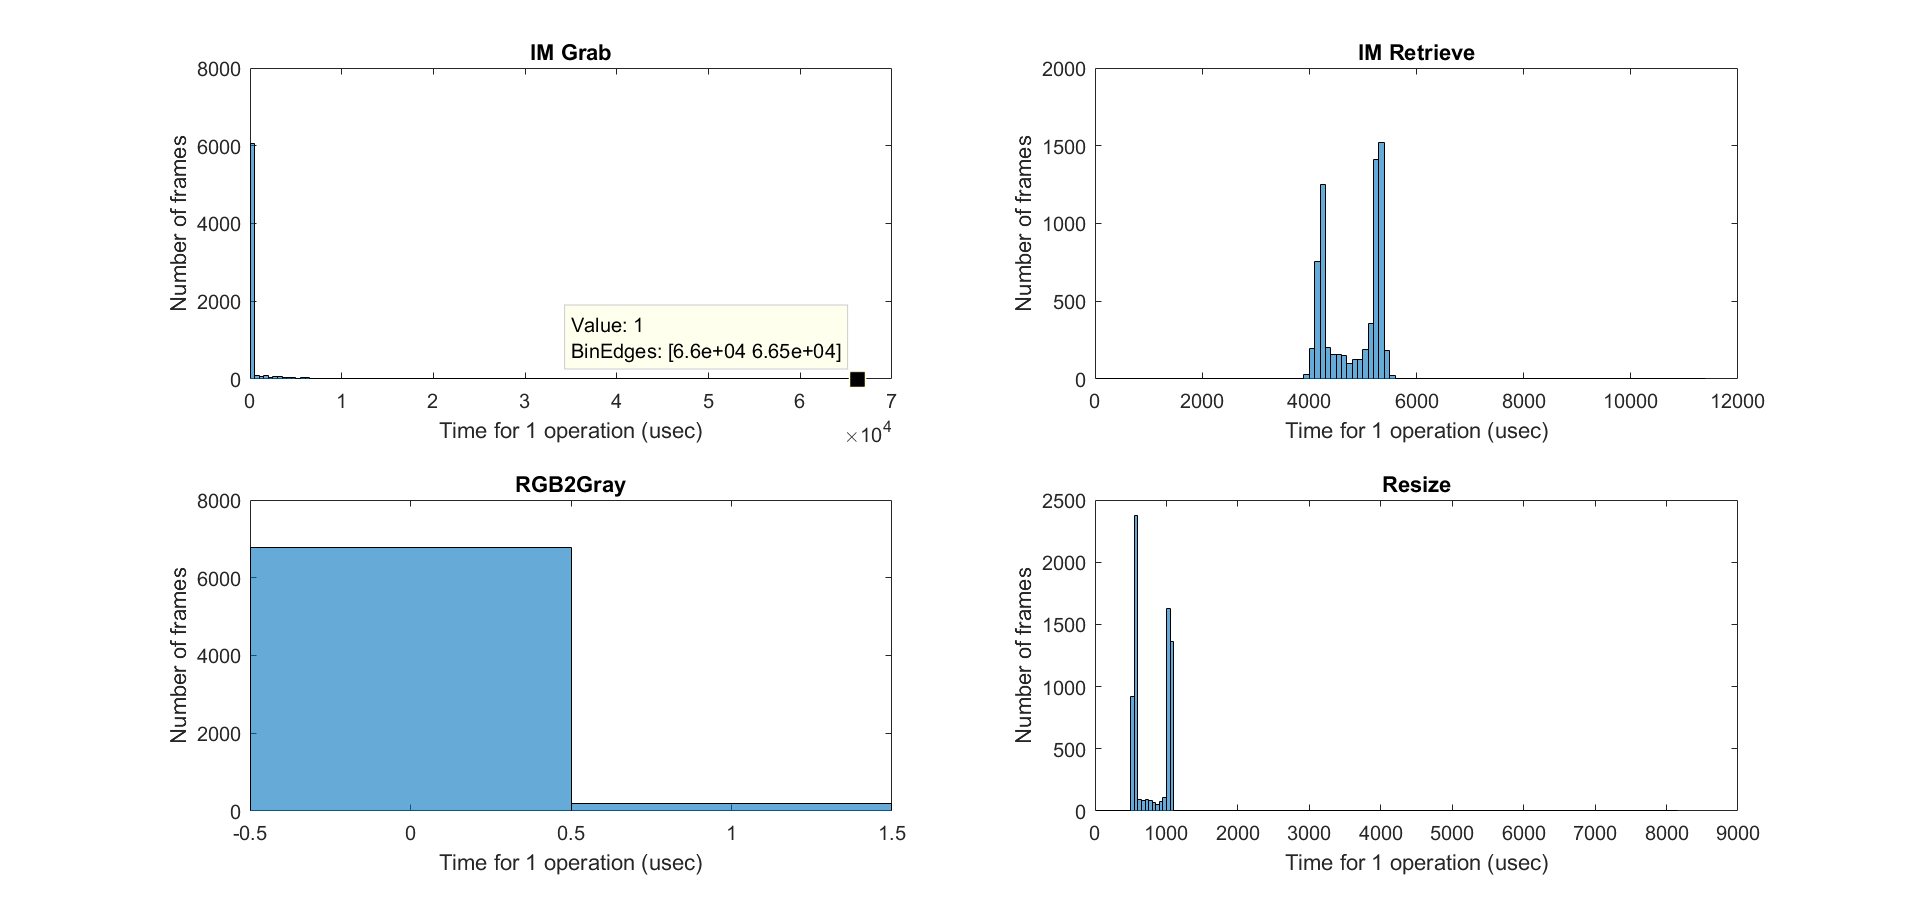
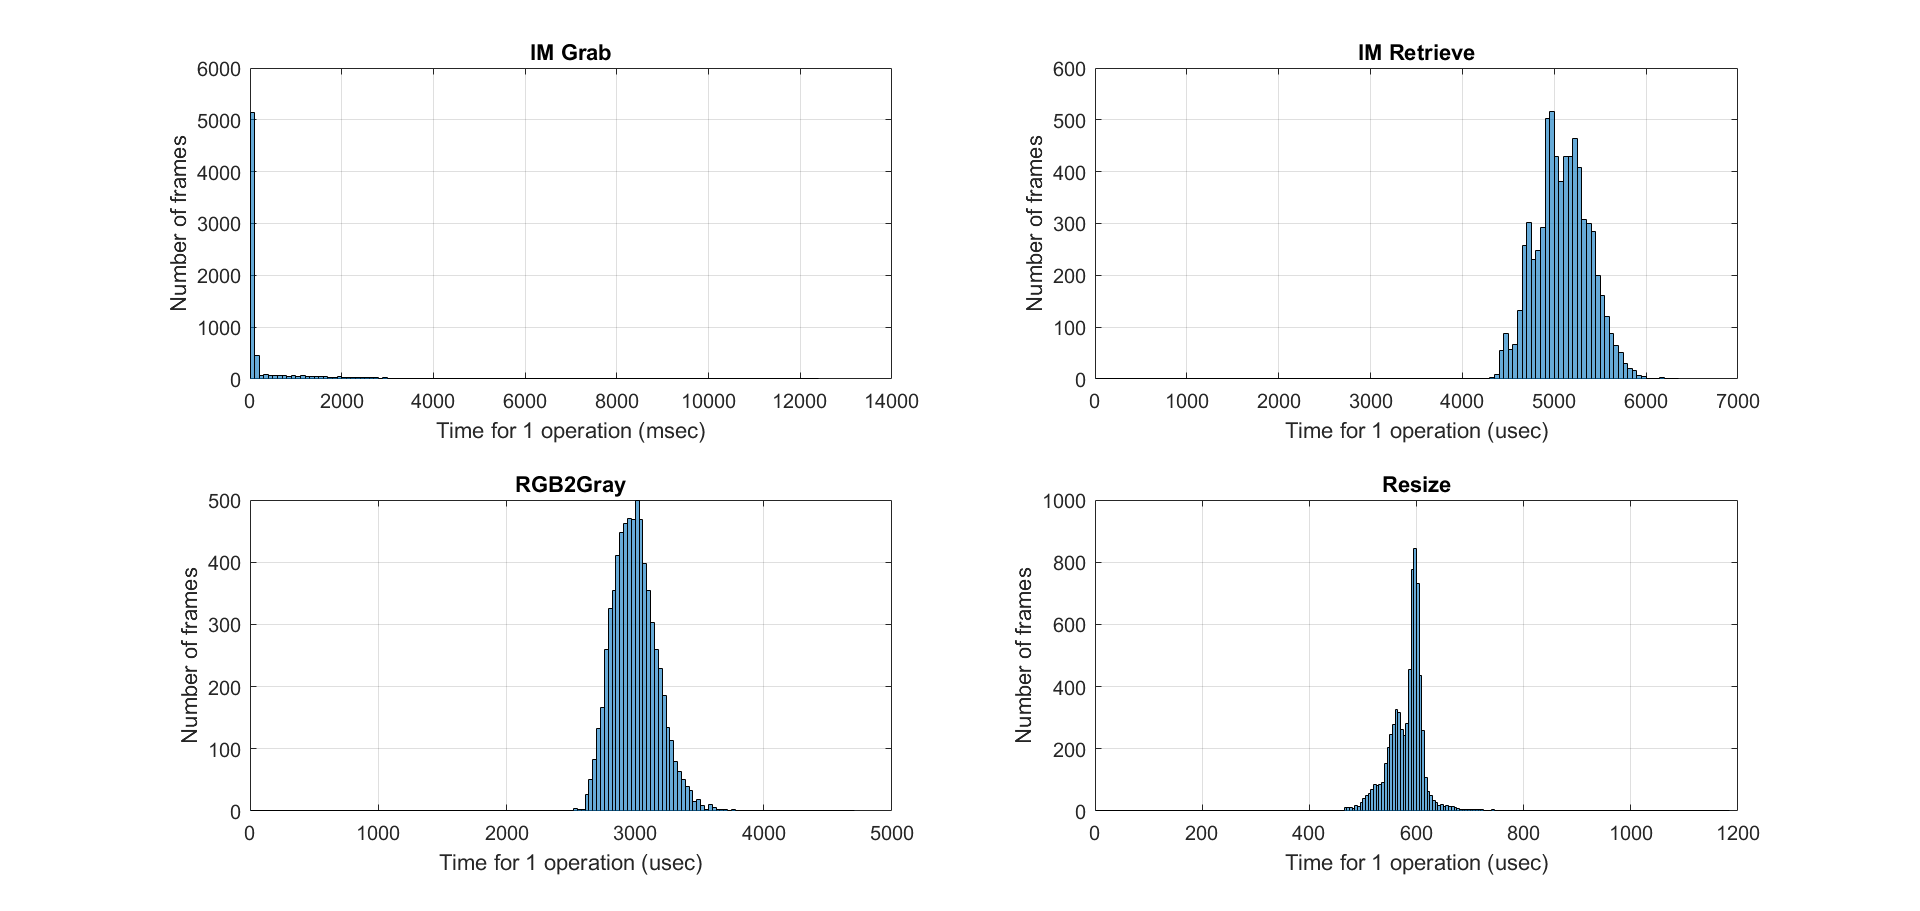
Collected data for individual frame processing on original video

diff --git a/sys_perf/plot_data.m b/sys_perf/plot_data.m
@@ -7,11 +7,11 @@ clear; close all; clc;
 %Individual Img Proc log file format  (all values in microseconds)
 %Grab Time, Retrieve time, Color, Resize
 
-num_data_per_iter = 4; % Tells the number of data points collected for each iteration
+num_data_per_iter = 6; % Tells the number of data points collected for each iteration
 num_frame_skips = 0; %[5 10 20 50 100 200]
 num_of_iter = 5;
-% path = 'C:\Users\Rohit\Documents\Umich Courses\Prof Wenisch Project\Logs\mod_log_no_imshow_all.txt';
-path = 'C:\Users\Rohit\Documents\Umich Courses\Prof Wenisch Project\Logs\mod_log_no_imshow.txt';
+path = 'C:\Users\Rohit\Documents\Umich Courses\Prof Wenisch Project\Logs\log_no_imshow_original_mod_all.txt';
+% path = 'C:\Users\Rohit\Documents\Umich Courses\Prof Wenisch Project\Logs\log_no_imshow_original_mod.txt';
 %path = 'C:\Users\Rohit\Documents\GitHub\video-query\sys_perf\logs\log_no_imshow.txt';
 
 %Read the log file, scan to get each data point and close the file
@@ -39,7 +39,7 @@ end
 
 sum_matrix = sum_matrix./num_of_iter;
 % plot_titles = {'Total time', 'Video Load', 'Check Opened', 'IM Grab', 'IM Retrieve', 'RGB2Gray', 'Resize'};
-plot_titles = {'IM Grab', 'IM Retrieve', 'RGB2Gray', 'Resize'};
+plot_titles = {'Total time', 'Video Open', 'IM Grab', 'IM Retrieve', 'RGB2Gray', 'Resize'};
 figure;
 
 x = 1:(size(data_matrix,2)-1);
@@ -56,7 +56,7 @@ for j=1:size(sum_matrix,1)
 %     xlabel('Iteration #');
 %     ylabel('Elapsed time (uSec)');
     
-    subplot(2,2,j);
+    subplot(3,2,j);
     histogram(sum_matrix(j,1:end));
     
     if(j==1)
